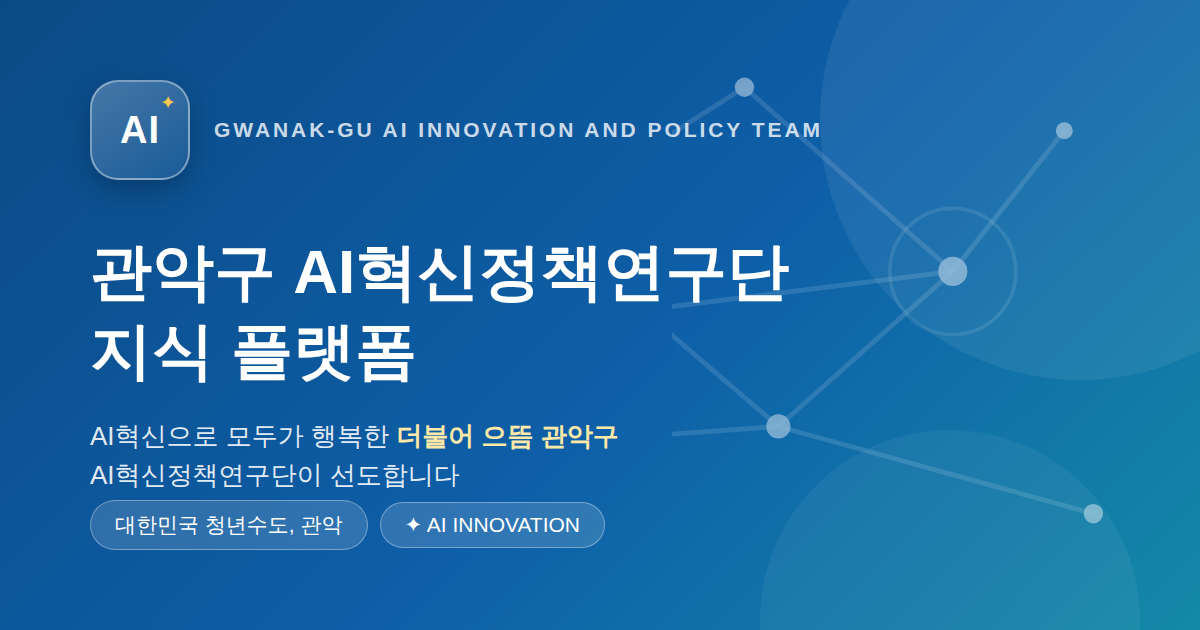
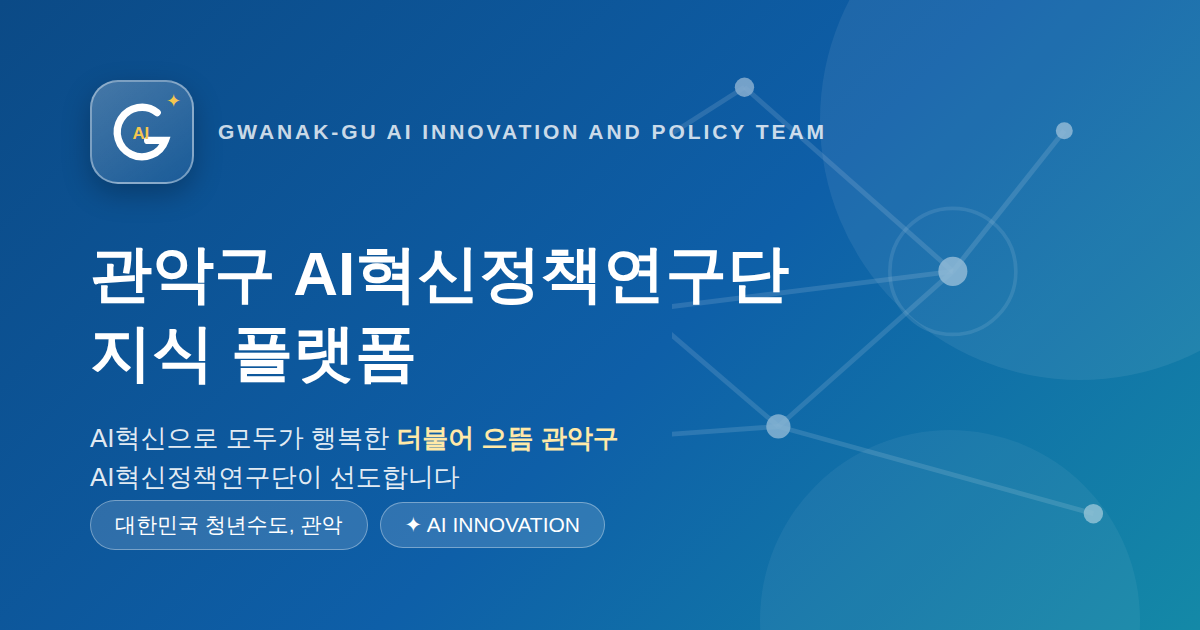
G 로고마크·모바일 달력 정돈·게시물 일련번호·푸터 2단·모바일 메뉴 격자
- 로고마크 재설계: 관악의 G가 금색 AI를 감싸 안는 형상의 SVG
  (AI를 품은 관악) — 헤더·파비콘·og 이미지 일괄 적용
- 모바일 달력 정리: 월 보기 셀 높이 균일화, 일정을 색 막대로 표시해
  셀 뒤죽박죽 문제 해소 (날짜를 누르면 일별 상세로 이동, 기존 동작)
- 게시물 일련번호: 자료마당·자유게시판 카드에 No.{id} 배지 표시
  (DB 고유번호라 삭제돼도 번호가 밀리지 않음)
- 푸터 3줄 → 2줄 정리 (안내문 / 주소·전화·저작권 한 줄)
- 모바일 메뉴: 가로 잘림 없이 3×2 격자 배치, 로그인 영역은 아래 줄

Claude-Session: https://claude.ai/code/session_012nUoWu7rsYxWtW9bPvGhCy

diff --git a/index.html b/index.html
@@ -47,8 +47,8 @@
     box-shadow:0 8px 22px rgba(0,0,0,.22), inset 0 1px 0 rgba(255,255,255,.35);
     backdrop-filter:blur(2px);
   }
-  .lm-ai{font-weight:800;font-size:23px;color:#fff;letter-spacing:.5px;line-height:1;}
-  .lm-spark{position:absolute;top:5px;right:7px;font-size:12px;color:#F5C64F;line-height:1;text-shadow:0 0 8px rgba(245,198,79,.8);}
+  .lm-g{width:42px;height:42px;display:block;}
+  .lm-spark{position:absolute;top:4px;right:6px;font-size:11px;color:#F5C64F;line-height:1;text-shadow:0 0 8px rgba(245,198,79,.8);}
   .masthead-text .eyebrow{font-size:11.5px;letter-spacing:.18em;color:rgba(255,255,255,.78);text-transform:uppercase;margin-bottom:5px;}
   .masthead-text h1{font-family:'Noto Serif KR',serif;font-size:clamp(24px,4.5vw,34px);font-weight:700;color:#fff;}
   .masthead-text .tagline{margin-top:7px;color:rgba(255,255,255,.88);font-size:14.5px;word-break:keep-all;}
@@ -67,6 +67,12 @@
   nav button:hover{color:var(--gwanak);}
   nav button:focus-visible{outline:2px solid var(--gwanak);outline-offset:-2px;}
   nav button[aria-selected="true"]{color:var(--gwanak-deep);font-weight:700;border-bottom-color:var(--gwanak);}
+  /* 모바일 메뉴: 가로 스크롤 없이 3×2 격자로 전부 보이게 */
+  @media(max-width:640px){
+    nav{flex-wrap:wrap;padding:0 10px;}
+    nav button{flex:1 1 30%;padding:11px 2px 9px;font-size:13.5px;}
+    .nav-auth{width:100%;justify-content:flex-end;margin-left:0;padding:7px 4px 9px;border-top:1px solid var(--line);}
+  }
   .nav-auth{margin-left:auto;align-self:center;display:flex;align-items:center;gap:10px;min-width:0;padding-left:12px;}
   .auth-email{font-size:13px;color:var(--muted);max-width:160px;overflow:hidden;text-overflow:ellipsis;white-space:nowrap;}
   .auth-btn{
@@ -139,6 +145,9 @@
     border-radius:8px;padding:11px 14px;font-size:14px;font-weight:600;}
   .form-ok.show{display:block;}
   .kind-tag{display:inline-block;font-size:11.5px;font-weight:700;border-radius:5px;padding:2px 8px;margin-bottom:7px;}
+  .post-no{display:inline-block;font-size:11px;font-weight:700;color:var(--muted);border:1px solid var(--line);
+    border-radius:5px;padding:2px 7px;margin:0 0 7px 6px;letter-spacing:.02em;}
+  .post-no:first-child{margin-left:0;}
   .kind-tag.file{background:#EEF3F9;color:var(--gwanak-deep);border:1px solid #CFE0F0;}
   .kind-tag.link{background:#EAF6F5;color:#0F6D66;border:1px solid #C3E4E1;}
   .kind-tag.note{background:#F6F1E7;color:#7A6420;border:1px solid #E7DCC0;}
@@ -252,6 +261,20 @@
   .cal-devt .dmeta{font-size:13px;color:var(--muted);display:flex;gap:8px;flex-wrap:wrap;align-items:center;}
   .cal-devt .dmemo{font-size:13.5px;color:#3B4756;margin-top:7px;white-space:pre-wrap;line-height:1.6;}
   .type-tag{font-size:11.5px;font-weight:700;color:#fff;border-radius:5px;padding:2px 8px;}
+  /* 모바일 달력: 셀을 간결하게 — 일정은 색 막대로 표시, 날짜를 누르면 일별 상세로 이동 */
+  @media(max-width:640px){
+    .cal-day{min-height:56px;padding:4px 3px 5px;}
+    .cal-ev{height:6px;padding:0;margin-top:3px;font-size:0;color:transparent;border-radius:3px;}
+    .cal-more{font-size:9.5px;margin-top:2px;padding-left:2px;}
+    .cal-weekdays div{padding:6px 0;font-size:11px;}
+    .cal-day .dnum{font-size:11.5px;}
+    .cal-day.today .dnum{width:18px;height:18px;line-height:18px;font-size:11px;}
+    .cal-title{font-size:16px;}
+    .cal-toolbar{gap:6px;}
+    .cal-btn{padding:6px 9px;font-size:12.5px;}
+    .cal-views button{padding:5px 9px;font-size:12px;}
+    .cal-add{padding:7px 12px;font-size:13px;}
+  }
   /* ── 자유게시판 ── */
   .board-card{background:var(--card);border:1px solid var(--line);border-radius:16px;
     padding:20px 22px 18px;margin-bottom:14px;box-shadow:0 2px 10px rgba(14,95,168,.05);
@@ -539,7 +562,13 @@
   </div>
   <header>
     <div class="masthead">
-      <div class="logo-mark" aria-hidden="true"><span class="lm-ai">AI</span><span class="lm-spark">✦</span></div>
+      <div class="logo-mark" aria-hidden="true">
+        <svg class="lm-g" viewBox="0 0 64 64">
+          <path d="M45.5 14.7 A22 22 0 1 0 52.7 39.5 L37 39.5" fill="none" stroke="#fff" stroke-width="6.5" stroke-linecap="round"/>
+          <text x="31" y="38" text-anchor="middle" font-size="15" font-weight="800" fill="#F5C64F" font-family="'Noto Sans KR',sans-serif">AI</text>
+        </svg>
+        <span class="lm-spark">✦</span>
+      </div>
       <div class="masthead-text">
         <div class="eyebrow">Gwanak-gu AI Innovation and Policy Team</div>
         <h1>관악구 AI혁신정책연구단 지식 플랫폼</h1>
@@ -832,9 +861,8 @@
 <footer>
   <div class="footer-inner">
     <img class="footer-brand" src="/brand-youth.png" alt="대한민국 청년수도 관악" width="110" height="46">
-    이 사이트는 관악구 AI혁신정책연구단의 지식 관리를 위한 플랫폼으로서 서울특별시 관악구의 공식 견해와 다를 수 있습니다.<br>
-    (08832) 서울특별시 관악구 관악로 145, 관악구청 2층 · TEL [phone redacted]<br>
-    © 2026 관악구 AI혁신정책연구단 지식 플랫폼
+    <div>이 사이트는 관악구 AI혁신정책연구단의 지식 관리를 위한 플랫폼으로서 서울특별시 관악구의 공식 견해와 다를 수 있습니다.</div>
+    <div>(08832) 서울특별시 관악구 관악로 145, 관악구청 2층 · TEL [phone redacted] · © 2026 관악구 AI혁신정책연구단 지식 플랫폼</div>
   </div>
 </footer>
 
@@ -1648,6 +1676,7 @@
       const kind = hasFile ? ['file', '📎 파일'] : (p.url ? ['link', '🔗 링크'] : ['note', '📝 메모']);
       let html = '<article class="item post" data-post="' + p.id + '">'
         + '<span class="kind-tag ' + kind[0] + '">' + kind[1] + '</span>'
+        + '<span class="post-no">No.' + p.id + '</span>'
         + '<h3>' + esc(p.title) + '</h3>';
       if (p.url) {
         html += '<p style="margin-top:2px;"><a class="src" href="' + esc(linkHref(p.url)) + '" target="_blank" rel="noopener">' + esc(p.url) + '</a></p>';
@@ -2173,6 +2202,7 @@
     const mine = p.author_id === currentUser.id;
     let h = '<article class="board-card' + (p.pinned?' pinned':'') + '" data-post="' + p.id + '">';
     if (p.pinned) h += '<span class="pin-badge">📌 공지</span>';
+    h += '<span class="post-no">No.' + p.id + '</span>';
     h += '<h3>' + esc(p.title) + '</h3>';
     if (p.body) h += '<div class="body">' + esc(p.body) + '</div>';
     h += renderAttachments(boardAtts[p.id]);